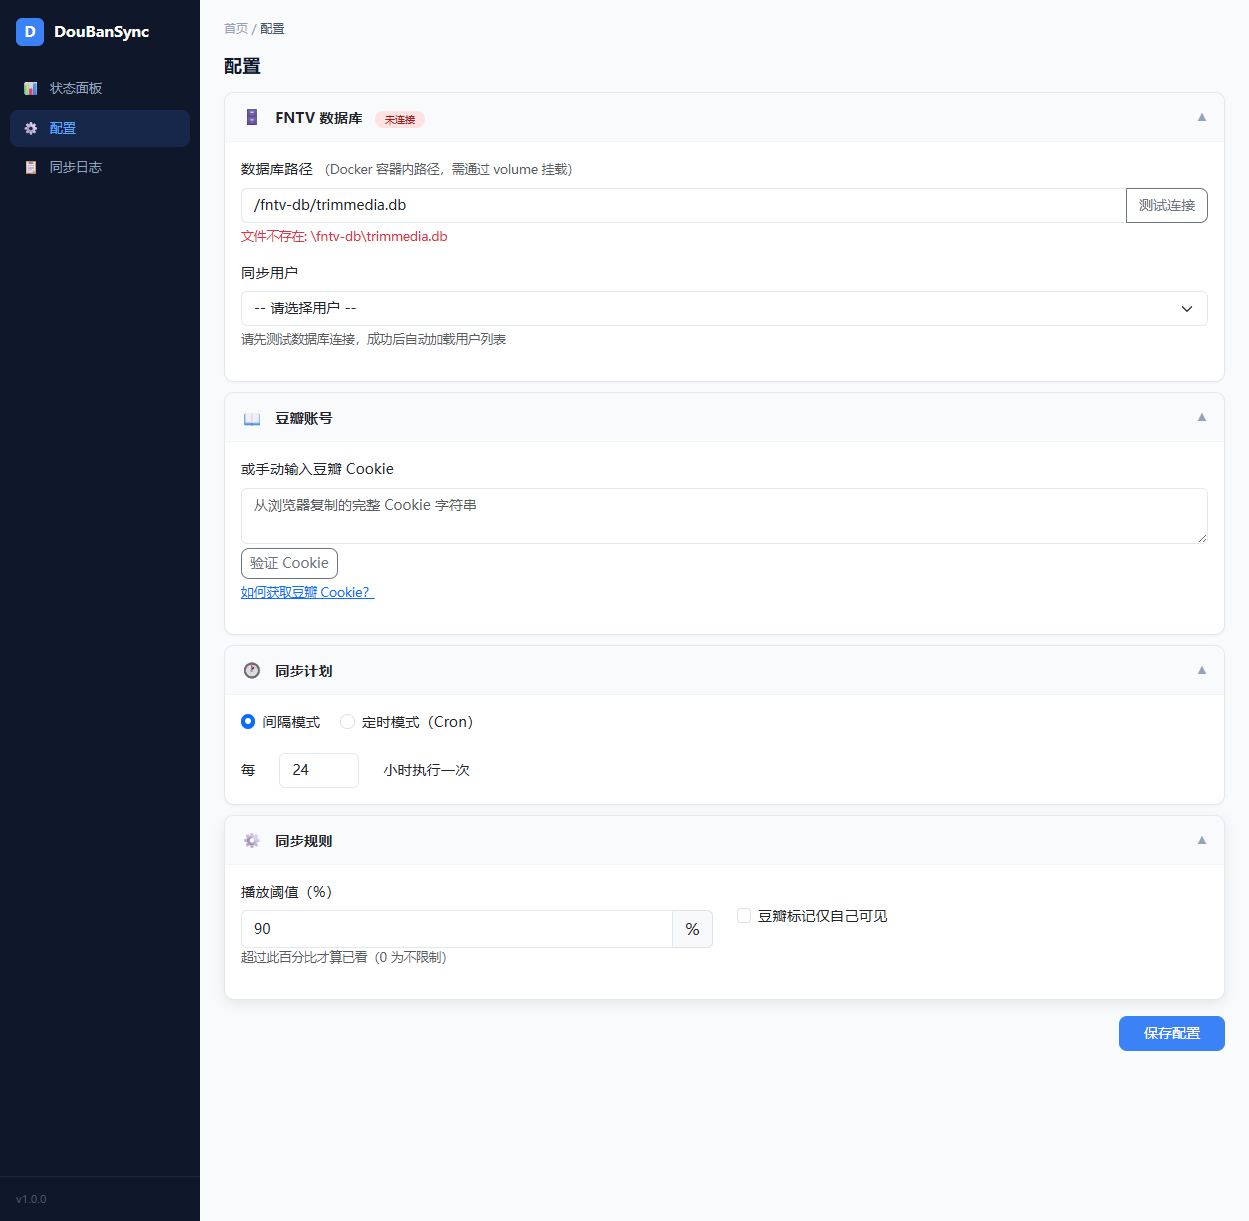
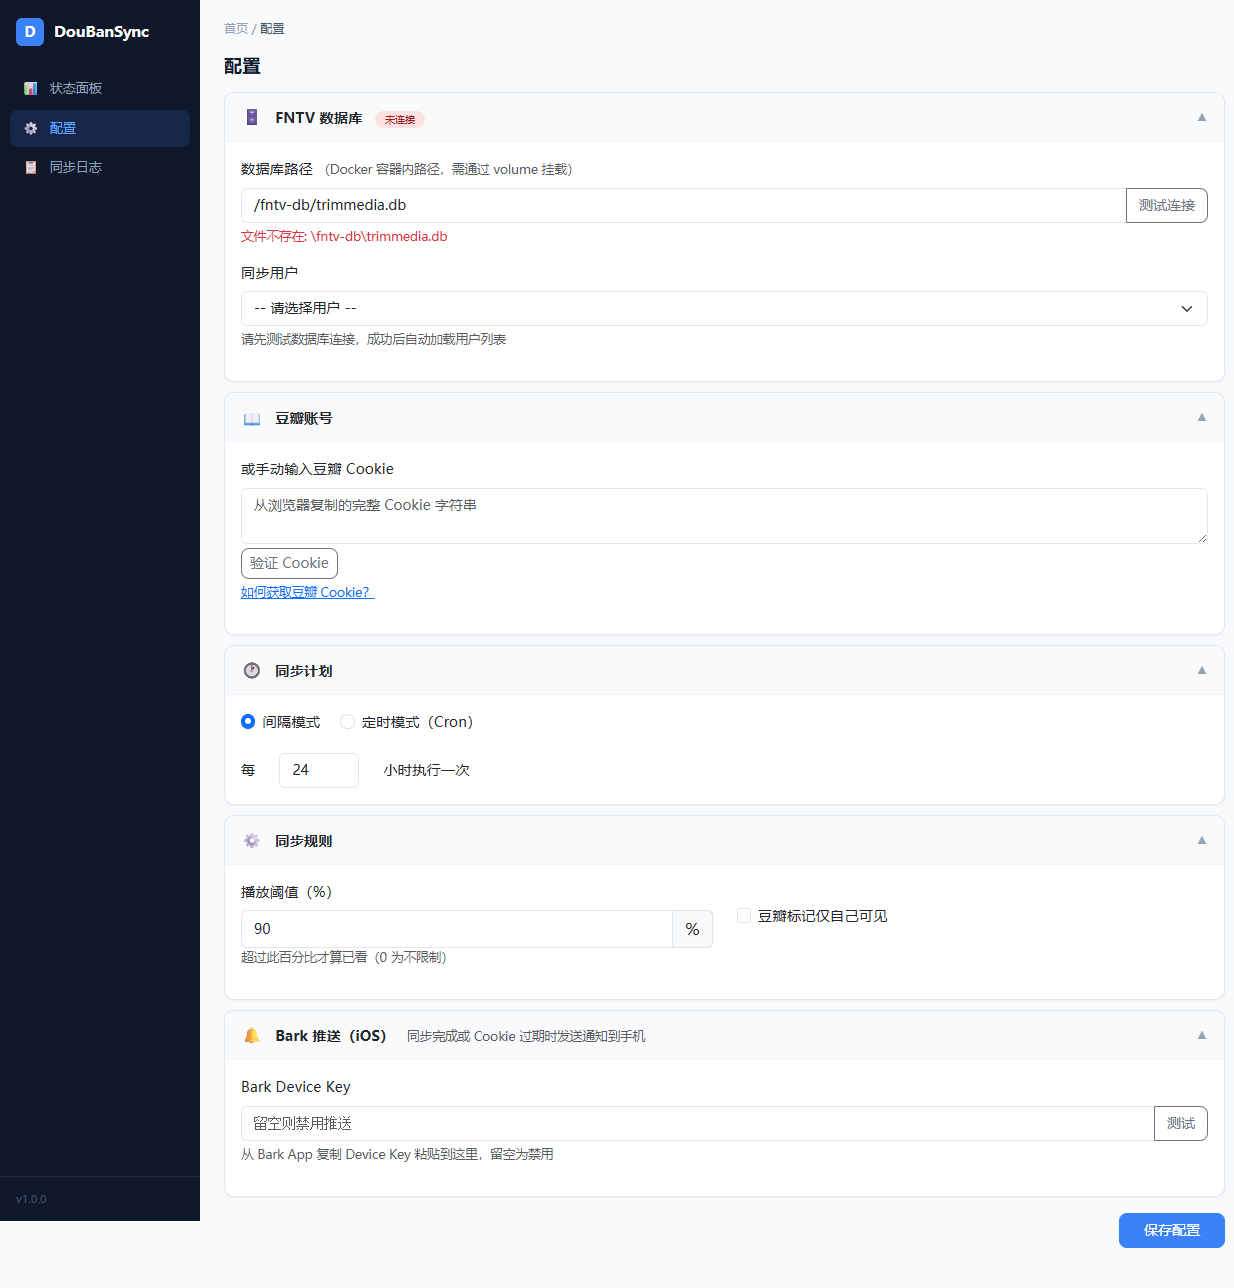
fix(docker): correct FNTV database path to real filesystem path
- Use /usr/local/apps/@user/trim.media/database/trimmedia.db
  instead of the symlink /vol1/@user/trimmedia/trimmedia.db
- Update README deploy command to match pre-built image workflow
- Refresh config page screenshot
- Update CHANGELOG for v0.1.1 and v0.1.2

diff --git a/CHANGELOG.md b/CHANGELOG.md
@@ -1,5 +1,19 @@
 # Changelog
 
+## v0.1.2 (2026-06-22)
+
+### 🔧 修复
+- **FNTV 数据库路径**：docker-compose 默认路径修正为飞牛 OS 真实路径（`/usr/local/apps/@appdata/trim.media/database/trimmedia.db`），替代之前的符号链接
+
+## v0.1.1 (2026-06-22)
+
+### ⚙️ 基础设施
+- **GitHub Actions CI**：自动构建并推送 Docker 镜像到 Docker Hub
+
+### 📖 文档
+- 播放阈值说明改为"支持自定义"，消除"固定 90%"的歧义
+- README 功能表格增加 Bark 推送通知说明
+
 ## v0.1.0 (2026-06-22)
 
 ### ✨ 新功能

diff --git a/README.md b/README.md
@@ -111,10 +111,11 @@ volumes:
 
 > 飞牛影视数据库通常位于飞牛 OS 的 `/usr/local/apps/@appdata/trim.media/database/trimmedia.db`，`/vol1/@apps/trimmedia/trimmedia.db` 是其符号链接。如有权限问题，请直接挂载原路径。
 
-**3. 构建并启动**
+**3. 拉取并启动**
 
 ```bash
-docker compose up -d --build
+docker compose pull   # 拉取最新镜像
+docker compose up -d  # 启动容器
 ```
 
 **4. 打开浏览器配置**